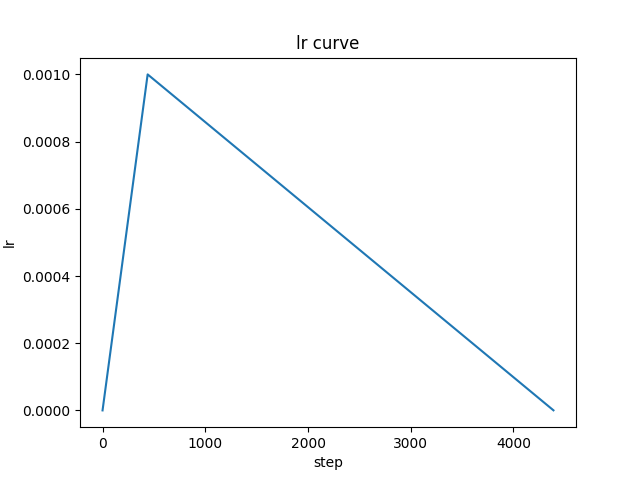
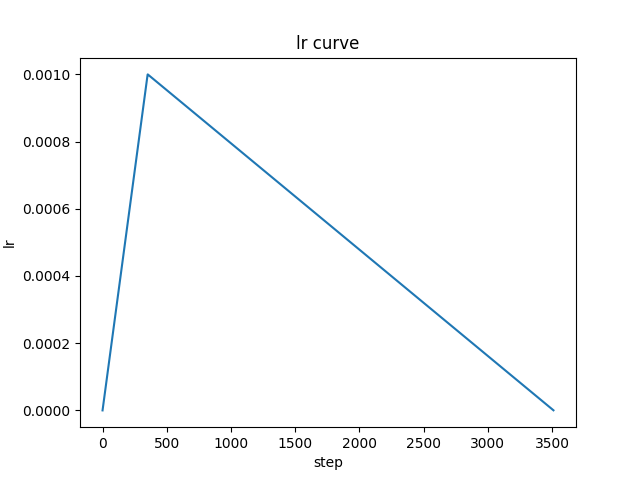
使用自定义的迭代器

diff --git a/data.py b/data.py
@@ -2,6 +2,7 @@ import os
 import random
 from torch.utils.data import Dataset
 from settings import vocab
+import torch
 
 tag2id = {tag: idx for idx, tag in enumerate(vocab)}
 id2tag = {idx: tag for idx, tag in enumerate(vocab)}
@@ -12,6 +13,7 @@ class ProcessDataset(Dataset):
         super().__init__()
         self.sents = []
         self.tags = []
+        self.__file_size = []
         # 将多文件全部读入
         if not predict:
             file_name_list = [os.path.join(file_folder_or_name, name) for name in os.listdir(file_folder_or_name)]
@@ -20,6 +22,7 @@ class ProcessDataset(Dataset):
         for file_name in file_name_list:
             with open(file_name, 'r', encoding='utf-8') as f:
                 lines = f.readlines()
+                self.__file_size.append(len(lines)) # 将每份文章的长度记录下来
                 for line in lines:
                     t = line.split('^')
                     if len(t)==2 and t[1].rstrip('\n') in vocab and not predict: # 确保格式正确
@@ -44,6 +47,15 @@ class ProcessDataset(Dataset):
 
     def __len__(self):
         return len(self.sents)
+    
+    # 创建一个生成器，每次按文章返回一个batch的sts和tag_ids，而不是每次固定batch的大小
+    def iter(self):
+        all_size = 0
+        for size in self.__file_size:
+            tags = self.tags[all_size: all_size+size]
+            tag_ids = [tag2id[tag] for tag in tags]
+            yield tuple(self.sents[all_size: all_size+size]), torch.tensor(tag_ids)
+            all_size += size
 
 
 # 将data/label下的文件随机打乱并分成训练集和测试集

diff --git a/main.py b/main.py
@@ -8,14 +8,17 @@ import matplotlib.pyplot as plt
 from run import train, test
 
 os.environ['CUDA_VISIBLE_DEVICES'] = '0'
-device = 'cuda' if torch.cuda.is_available() else 'cpu'
+device = 'cuda:1' if torch.cuda.is_available() else 'cpu'
 batch_size = 100
-epochs = 10
+epochs = 8
 model = Bert_BiLSTM_CRF().cuda()
 train_dataset = ProcessDataset('data/label/train')
-train_iterator = DataLoader(dataset=train_dataset, batch_size=batch_size, shuffle=False) # 一定不能打乱
+# train_iterator = DataLoader(dataset=train_dataset, batch_size=batch_size, shuffle=False) # 一定不能打乱
+# 使用新的迭代器
+train_iterator = train_dataset.iter()
 test_dataset = ProcessDataset('data/label/test')
-test_iterator = DataLoader(dataset=test_dataset, batch_size=batch_size, shuffle=False)
+# test_iterator = DataLoader(dataset=test_dataset, batch_size=batch_size, shuffle=False)
+test_iterator = test_dataset.iter()
 optimizer = AdamW(model.parameters(), lr=1e-3, eps=1e-6)
 
 total_steps = len(train_iterator) * epochs # 总步数

diff --git a/run.py b/run.py
@@ -28,7 +28,7 @@ def train(epoch, model, iterator, optimizer, scheduler, device):
             scheduler.step()
             optimizer.zero_grad()
 
-            y_hat = model(sts, tag_ids,  test=True)
+            y_hat = model(sts, tag_ids,  predict=True)
             y_hat = [i[0] for i in y_hat] # [[1], [3], ...]
             y = tag_ids.tolist() # tensor(1, 3, ....)
             # 再转换为BIOES形式
@@ -44,7 +44,7 @@ def train(epoch, model, iterator, optimizer, scheduler, device):
     # print("f1: ", f1_score([Y], [Y_hat], mode='strict', scheme=IOBES))
     print("classification report: ")
     print(classification_report([Y], [Y_hat], mode='strict', scheme=IOBES))
-    print(f"eva train loss:{losses / step}")  # 每个epoch的平均loss
+    print(f"train loss:{losses / step}")  # 每个epoch的平均loss
     return all_loss, all_lr
 
 

diff --git a/predict.py b/predict.py
@@ -87,4 +87,5 @@ def txt2excel():
         df.to_excel(os.path.join(result_path, f"{txt_name.strip('.txt')}.xlsx"), index=False)
             
 if __name__ == "__main__":
+    doc_predict()
     txt2excel()

diff --git a/settings.py b/settings.py
@@ -1,5 +1,4 @@
 # 实体类型
-
 vocab = [
     'O',
     'S-CHAPTER',  # 章
